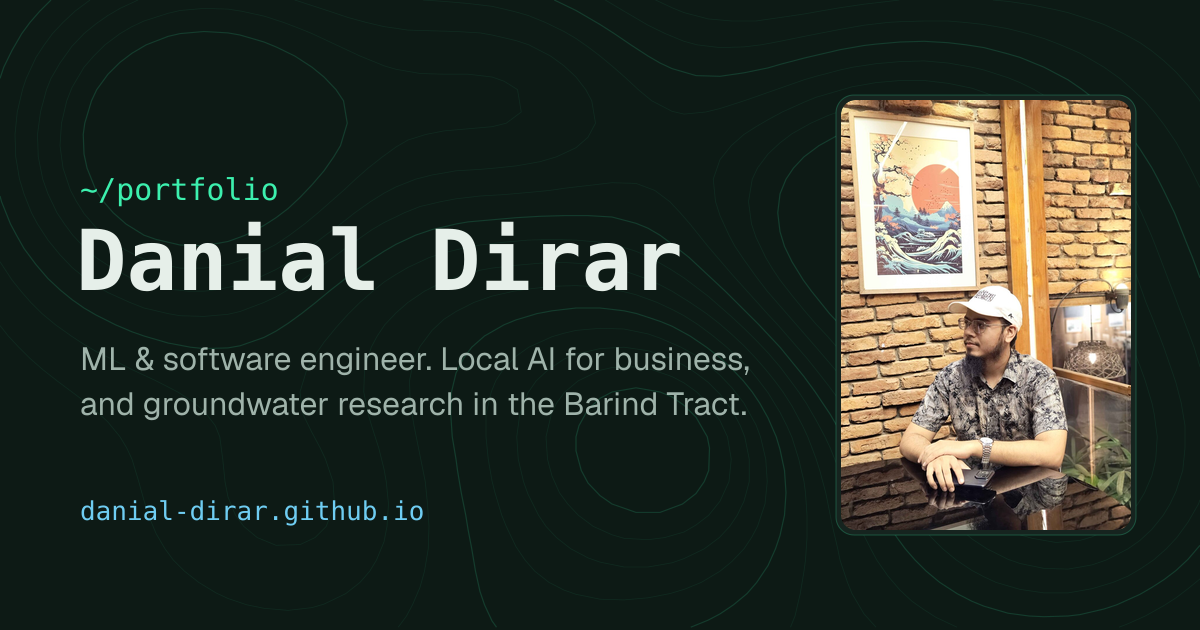
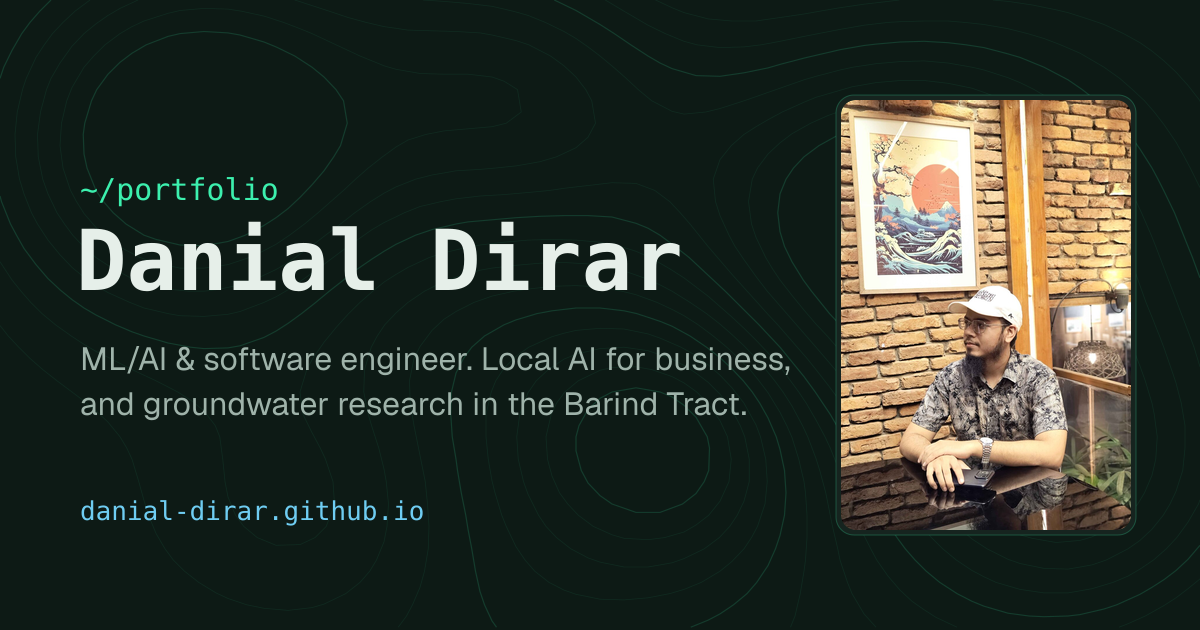
Title: ML/AI & Software Engineer across the site
Role in site config (hero terminal, page titles, metadata), the About
description, the README and the Open Graph image.

Changed region(s): [[0.0925, 0.5429, 0.6783, 0.6032]]

diff --git a/lib/site.ts b/lib/site.ts
@@ -2,7 +2,7 @@ export const site = {
   name: "Danial Dirar",
   fullName: "Md. Danial Dirar",
   handle: "danial",
-  role: "ML & Software Engineer",
+  role: "ML/AI & Software Engineer",
   tagline: "Machine Learning · Generative AI · Local AI for business",
   description:
     "Portfolio and blog of Md. Danial Dirar — a computer-science engineer working on machine learning, generative AI, and local AI tailored for businesses.",

diff --git a/app/about/page.tsx b/app/about/page.tsx
@@ -16,7 +16,7 @@ import { site } from "@/lib/site";
 export const metadata: Metadata = {
   title: "About",
   description:
-    "About Md. Danial Dirar — ML engineer working on machine learning, generative AI, and local AI for business.",
+    "About Md. Danial Dirar — ML/AI & software engineer working on machine learning, generative AI, and local AI for business.",
 };
 
 const skills = [

diff --git a/README.md b/README.md
@@ -1,6 +1,6 @@
 # danial-dirar.github.io
 
-Portfolio, research and blog of **Md. Danial Dirar** — ML and software engineer,
+Portfolio, research and blog of **Md. Danial Dirar** — ML/AI & software engineer,
 and groundwater researcher working on Bangladesh's Barind Tract.
 
 Live at **https://danial-dirar.github.io**.
